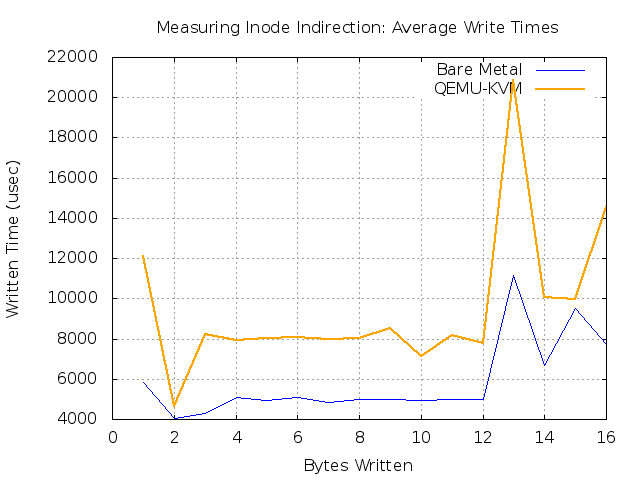
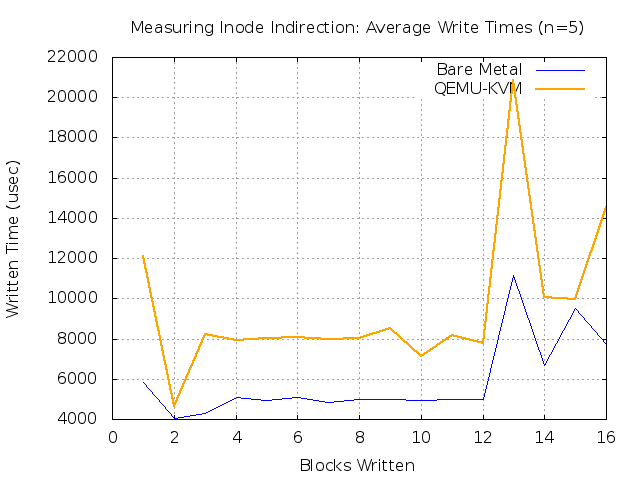
Some changes to the tex file regarding 300-600 microsecond read times. Also updated inode graph with correct labels and n value.

Changed region(s): [[0.1875, 0.0312, 0.9062, 0.0938], [0.4688, 0.9375, 0.6562, 1.0]]

diff --git a/mini/mini_project_writeup.tex b/mini/mini_project_writeup.tex
@@ -231,6 +231,8 @@ Since both the bare metal and virtual machine are using ext2, and ext2's documen
 \end{verbatim}
 
 \section{Results}
+%% This is a hypothesis: should we include it?
+The following sections present our results for each of the four experiments. Note that in the buffer size and prefetching experiments, 
 
 \subsection{Buffer Size}
 \begin{figure}[!ht]
@@ -242,9 +244,7 @@ Since both the bare metal and virtual machine are using ext2, and ext2's documen
 \caption{Ideal buffer size for random file access: combined read times}
 \end{figure}
 
-When reading single bytes in reverse starting from a random point in our target file on ext2, read times jumped on 4096-byte boundaries. 
-On bare metal, average read times jumped from approximately 0.5 microseconds when the read happened within a 4 KB block, to 200-250 microseconds for the first read into a new 4 KB block. 
-Under QEMU-KVM, read times within a block took approximately 0.75 microseconds and jumped to 300-400 microseconds for the first read into a new 4 KB block.  
+When reading single bytes in reverse starting from a random point in our target file on ext2, read times jumped on 4096-byte boundaries. On bare metal, average read times jumped from approximately 0.5 microseconds when the read happened within a 4 KB block, to 200-250 microseconds for the first read into a new 4 KB block. Under QEMU-KVM, read times within a block took approximately 0.75 microseconds and jumped to 300-400 microseconds for the first read into a new 4 KB block. We notice that these read times--in the 200-400 microsecond range--are too fast to represent a disk read from an actual disk sector but too slow to represent a read from CPU cache or physical memory. This most likely indicates that there is I/O to disk, but that the disk is returning the data from an on-disk electronic cache, not actually doing a seek and read from a physical sector.
 
 This is consistent with our hypothesis that read times would spike on the first read into a new block but remain low otherwise. 
 Since ext2 defines a block size as 4096 bytes, the first read into a new block fetches the block from disk into memory; all subsequent reads from that block can be done directly from memory, and so are much quicker.
@@ -265,7 +265,7 @@ Our results in Figure \ref{fig:prefetch_combined} confirmed our hypothesis that 
 Our results show that the high read times occur at 32-block intervals, indicating that ext2 prefetches 128 KB of data at a time. 
 
 Read times from memory were roughly 1 microsecond in both the native and virtual settings, and jumped to approximately 600 microseconds in both settings, though the highest read latencies observed were on the VM. 
-This makes sense, since all else being equal (in particular, assuming the virtualization layer is not doing any additional prefetching itself), reading from disk should take slightly longer for the VM due to the overhead added by virtio, as discussed in the previous section.
+This makes sense, since all else being equal (in particular, assuming the virtualization layer is not doing any additional prefetching itself), reading from disk should take slightly longer for the VM due to the overhead added by virtio, as discussed in the previous section. Additionally, the 600 microsecond read times that represent ``going to disk'' most likely indicate that the disk is returning data from an on-disk electronic cache and not actually reading from a physical sector, similarly to our previous experiment.
 
 Initially our results indicated that the VM was able to prefetch much faster than the bare metal machine. 
 We used \texttt{iostat} to monitor the amount each machine had to go out to disk to complete our experiment. 
